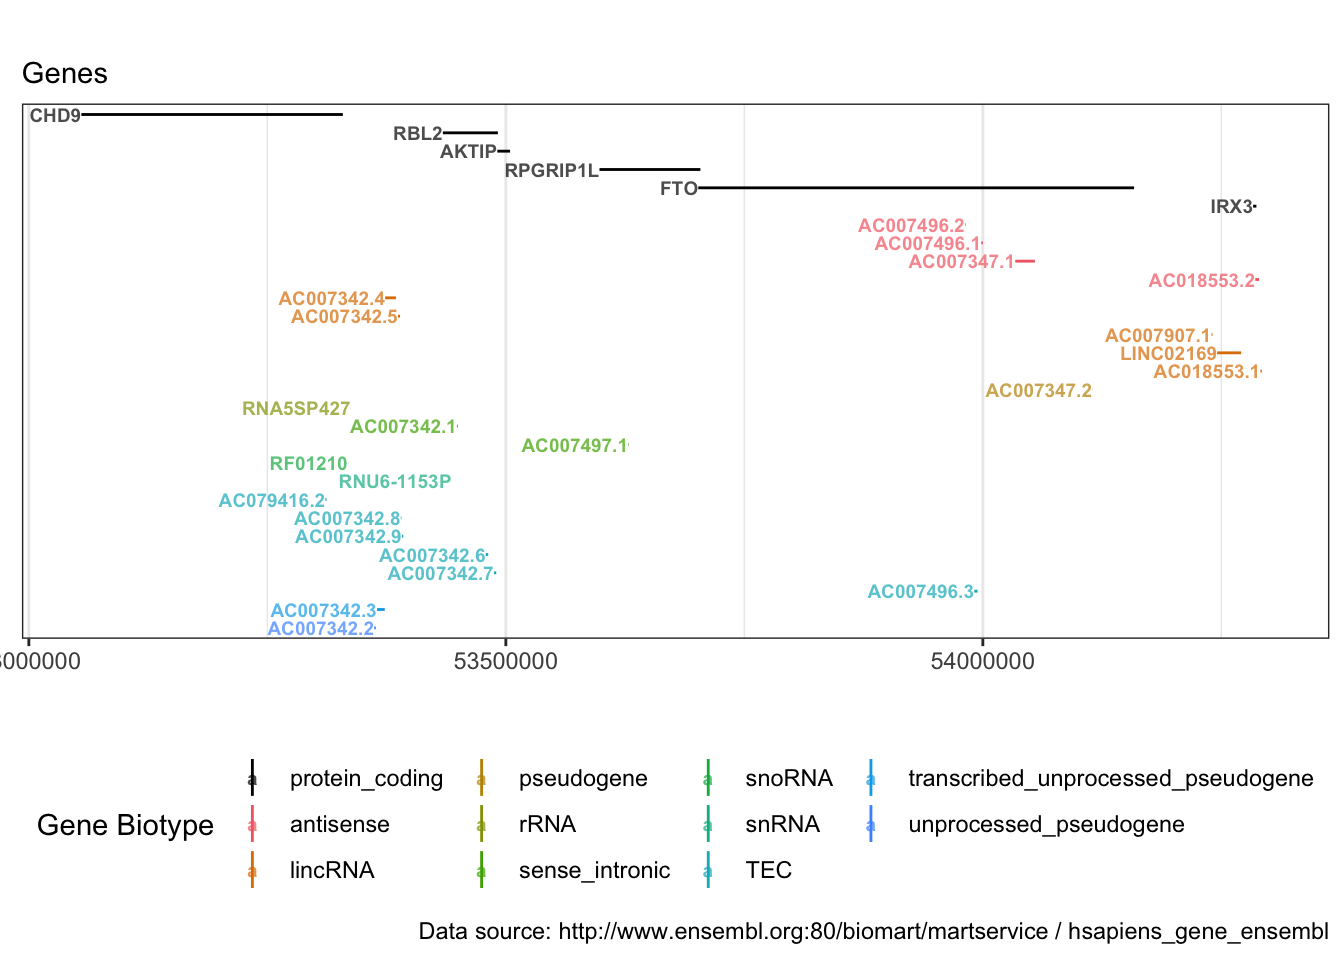
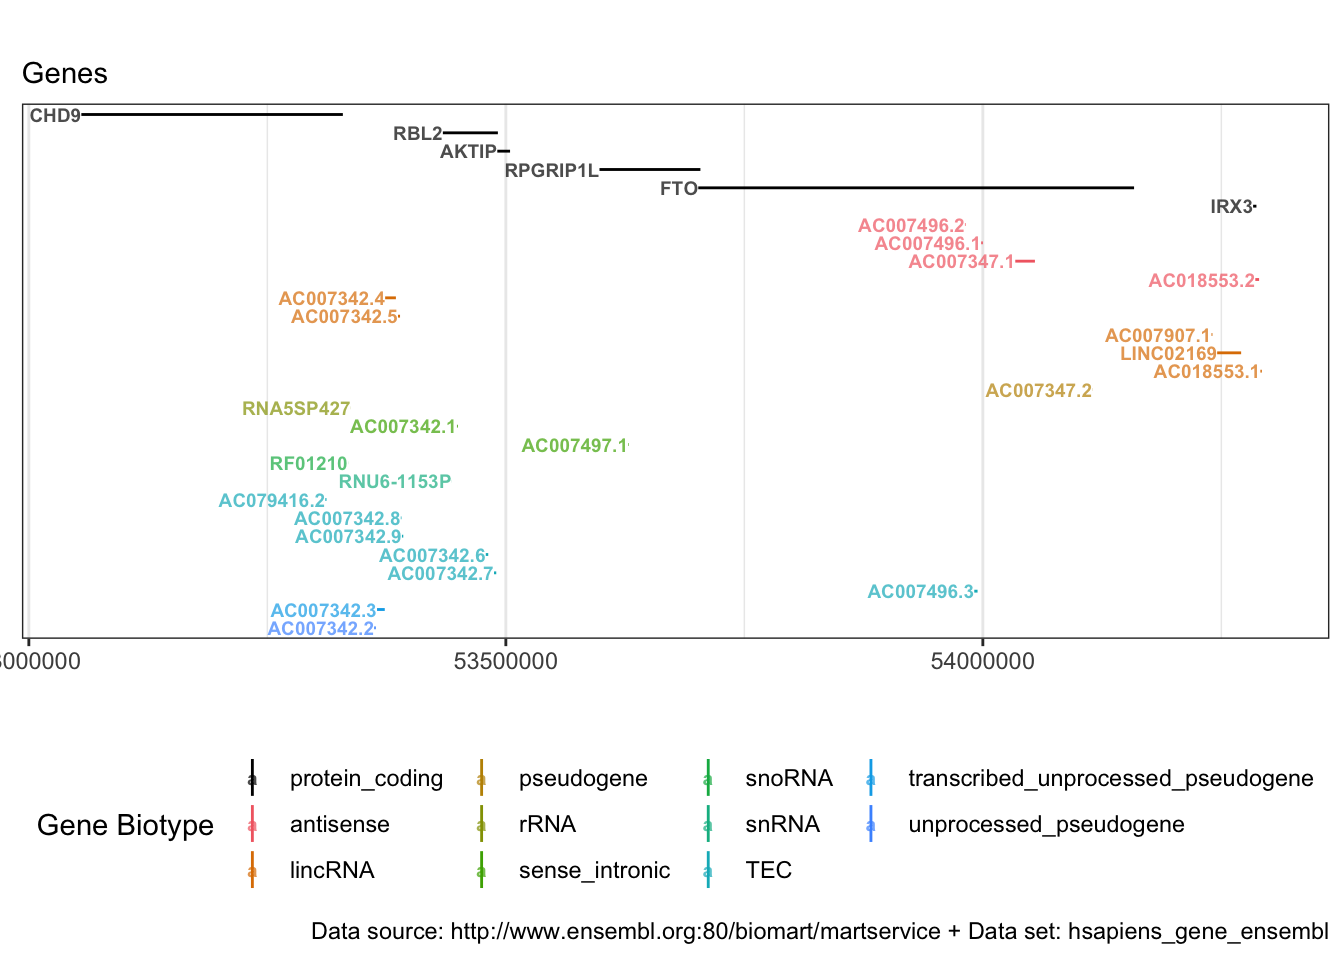
adapting p2 paste > paste0 (feedback flavia)

Changed region(s): [[0.25, 0.9375, 0.7812, 1.0]]

diff --git a/2018/07/30/locuszoomplot/index.html b/2018/07/30/locuszoomplot/index.html
@@ -634,7 +634,7 @@ p2 &lt;- ggplot(data = out.bm.genes.region) +
   coord_flip() + ylab(&quot;&quot;) +
   ylim(plot.range) + 
   geom_text(aes(x = external_gene_name, y = start_position, label = external_gene_name, colour = gene_biotype_fac), fontface = 2, alpha = I(0.7), hjust = &quot;right&quot;, size= 2.5) + 
-  labs(title = &quot;&quot;, subtitle = paste(&quot;Genes&quot;), caption = paste(&quot;Data source:&quot;, gene.ensembl@host, &quot;/&quot;, gene.ensembl@dataset), color = &quot;Gene Biotype&quot;) +
+  labs(title = &quot;&quot;, subtitle = paste0(&quot;Genes&quot;), caption = paste0(&quot;Data source: &quot;, gene.ensembl@host, &quot; + Data set: &quot;, gene.ensembl@dataset), color = &quot;Gene Biotype&quot;) +
   theme(axis.title.y=element_blank(),
         axis.text.y=element_blank(),
         axis.ticks.y=element_blank(), 
